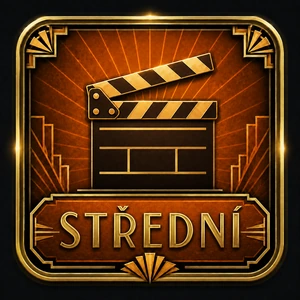
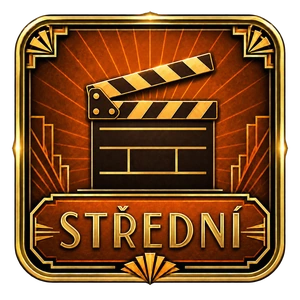
Add files via upload

diff --git a/css/difficulty-buttons-v42.css b/css/difficulty-buttons-v42.css
@@ -1,7 +1,6 @@
-/* Movie Quiz – approved difficulty buttons v47
-   Native design size: 300 × 300 master px each.
-   The uploaded artwork itself is the button. It must be rendered whole,
-   without masks, crops, clip-paths or replacement card backgrounds. */
+/* Movie Quiz – final approved difficulty buttons v48
+   Native source artwork: 300 × 300 px.
+   Artwork itself is the whole button, with transparent outer background. */
 
 html body.mq-noir-master #page #cinema #screen #difficulty .difficulty-grid{
   grid-template-columns:repeat(3,25.79536cqw)!important;
@@ -52,16 +51,15 @@ html body.mq-noir-master #page #cinema #screen #difficulty .difficulty-card:acti
 }
 
 html body.mq-noir-master #page #cinema #screen #difficulty .difficulty-card[data-difficulty="easy"]{
-  background-image:url('../assets/difficulty/difficulty-easy.webp?v=42.0')!important;
+  background-image:url('../assets/difficulty/difficulty-easy.webp?v=48.0')!important;
 }
 html body.mq-noir-master #page #cinema #screen #difficulty .difficulty-card[data-difficulty="medium"]{
-  background-image:url('../assets/difficulty/difficulty-medium.webp?v=42.0')!important;
+  background-image:url('../assets/difficulty/difficulty-medium.webp?v=48.0')!important;
 }
 html body.mq-noir-master #page #cinema #screen #difficulty .difficulty-card[data-difficulty="hard"]{
-  background-image:url('../assets/difficulty/difficulty-hard.webp?v=42.0')!important;
+  background-image:url('../assets/difficulty/difficulty-hard.webp?v=48.0')!important;
 }
 
-/* Remove every leftover legacy layer from .selection-card. */
 html body.mq-noir-master #page #cinema #screen #difficulty .difficulty-card::before,
 html body.mq-noir-master #page #cinema #screen #difficulty .difficulty-card::after{
   content:none!important;
@@ -72,7 +70,6 @@ html body.mq-noir-master #page #cinema #screen #difficulty .difficulty-card::aft
   filter:none!important;
 }
 
-/* The approved image already contains the complete icon and label. */
 html body.mq-noir-master #page #cinema #screen #difficulty .difficulty-card>.selection-icon,
 html body.mq-noir-master #page #cinema #screen #difficulty .difficulty-card>.card-copy,
 html body.mq-noir-master #page #cinema #screen #difficulty .difficulty-card>.difficulty-dots{
